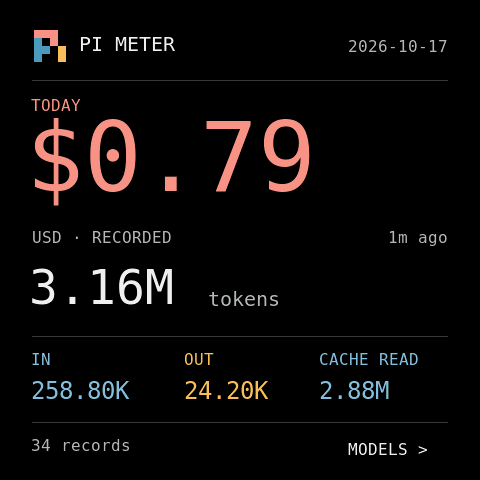
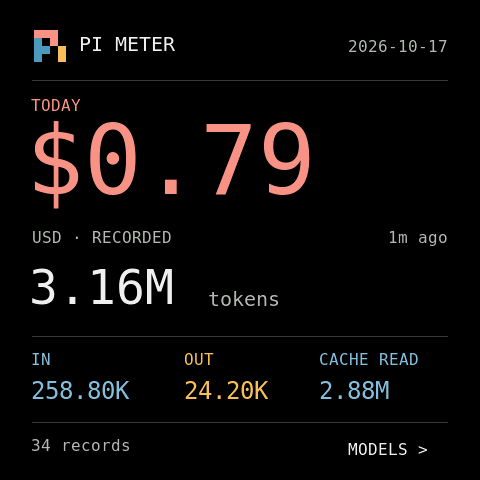
Increase summary caption-to-amount gap to 10 pixels

diff --git a/firmware/src/ui.cpp b/firmware/src/ui.cpp
@@ -127,7 +127,7 @@ void uiBegin() {
     home=box(root,0,81,480,399,0); details=box(root,0,81,480,399,0);
     // Coordinates below are relative to y=81, matching the approved previews.
     period=label(home,31,17,418,&font_16,Coral,"NO DATA YET");
-    amount=label(home,26,37,422,&font_96,Coral,"--");
+    amount=label(home,26,40,422,&font_96,Coral,"--");
     currency=label(home,32,149,306,&font_16,Gray,"USD · WAITING");
     age=label(home,340,149,108,&font_16,Gray,"--",true);
     tokens=label(home,29,184,300,&font_48,White,"--");

diff --git a/docs/images/README.md b/docs/images/README.md
@@ -11,6 +11,6 @@
 
 今日示例日期为 2026-10-17（Asia/Shanghai），采样时间12:00，日结束为次日00:00；已连接、1m ago、状态正常。今日合计$0.79、3,160,000 tokens、34 records。上一日示例为2026-10-16，$1.24、2,400,000 tokens、27 records，输入180,000、输出20,000、cache read2,200,000。两日issues/unpriced均为0，全部为合成示例。
 
-今日／昨日两张汇总图由 `python3 firmware/checks/ui.py --render-dir docs/images` 的真实LVGL回归渲染导出；截图在原生淡入完成后捕获，不用于声称实机动画帧率。汇总页金额在标题下方下移6px（原控件y31→37），合图同步使用更新后的首页。
+今日／昨日两张汇总图由 `python3 firmware/checks/ui.py --render-dir docs/images` 的真实LVGL回归渲染导出；截图在原生淡入完成后捕获，不用于声称实机动画帧率。汇总页金额在标题下方累计下移9px（原控件y31→40），示例中标题与金额的可见字形间隔为10px；合图同步使用更新后的首页。
 
 未读取设备、USB、BLE 或私人会话数据。PNG 不含文本元数据或本机路径；离线渲染不验证屏幕面板、触摸硬件或实机显示效果。
